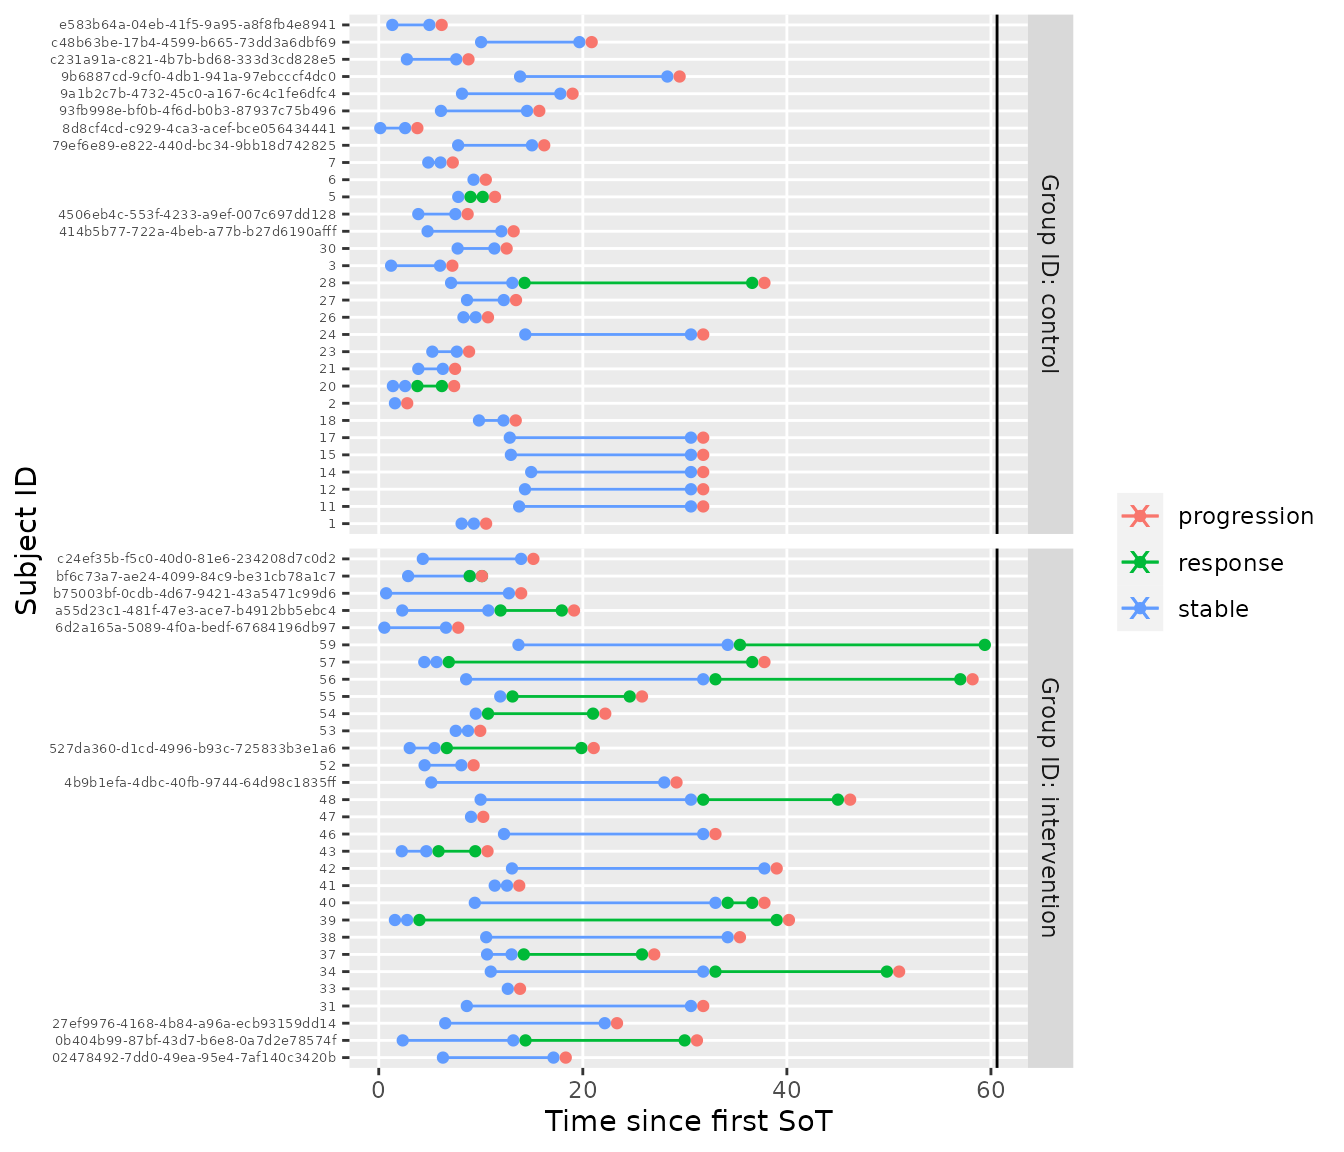
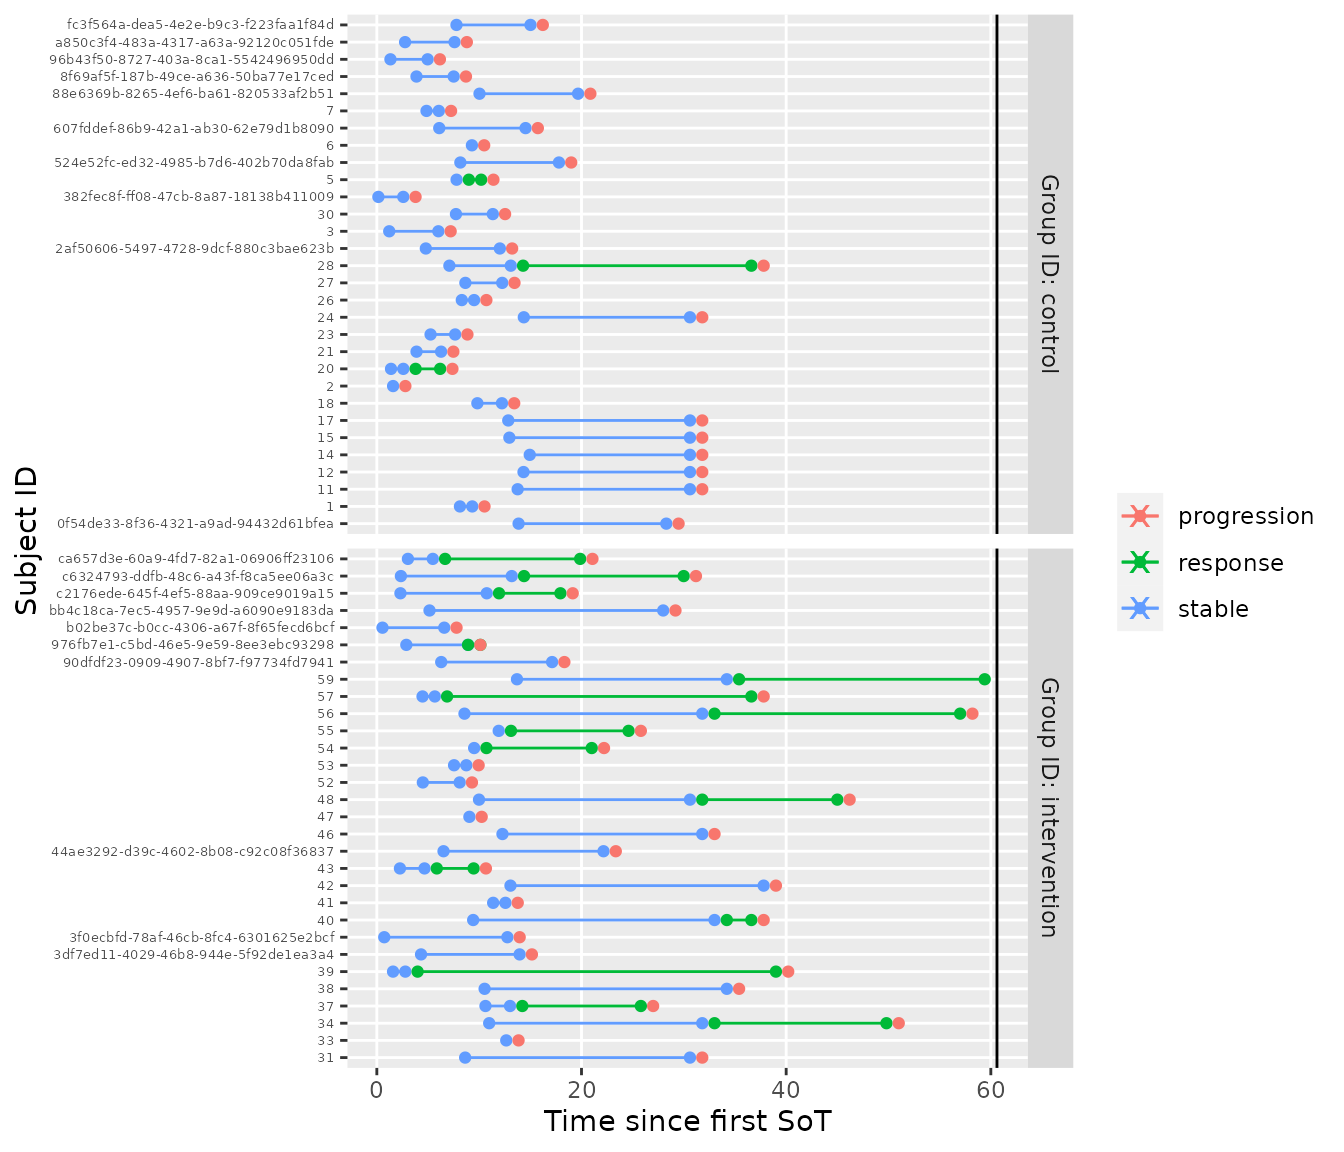
Deploying to gh-pages from @ Boehringer-Ingelheim/oncomsm@eda3e94cb7a55cb891f7c2e76240ce21d4c59702 🚀

diff --git a/articles/multi-state-model-for-early-oncology.html b/articles/multi-state-model-for-early-oncology.html
@@ -90,10 +90,10 @@
 <p><strong>tl;dr:</strong> <em>Tumor response data is often treated as binary endpoint in early oncology trials (objective response or progression free survival at x months). This ignores the fact that these are time-to-event endpoints. Instead, the multi-state characteristics of the data can be exploited to reduce bias at interim analyses and drive event prediction for probability of success calculations.</em></p>
 <p>In early oncology trials, (objective tumor) response based on the RECIST criteria is often used as primary endpoint to establish the activity of a treatment. Response is often treated as binary variable although it is a delayed event endpoint. At the final analysis, this simplification is of little concern since all individuals tend to be followed up long enough to justify the assumption that non-responders are unlikely to still become responders. This approach is often plausible since individuals with tumors not responding to treatment ultimately progress. However, when continuously monitoring such a trial, the assumption of sufficient follow-up is no longer fulfilled and a simple binary analysis may be biased.</p>
 <p>In this vignette, the problem is addressed by extending the statistic binary response model to a three-state model for “stable”, “response”, and “progression or death”. The respective transition numbers are given in the graph below.</p>
-<div id="htmlwidget-0e3ef72b89f70aabca5e" style="width:672px;height:200px;" class="DiagrammeR html-widget"></div>
-<script type="application/json" data-for="htmlwidget-0e3ef72b89f70aabca5e">{"x":{"diagram":"\ngraph LR\n  stable -- 1 --> response\n  response -- 2 --> progression[progression or death]\n  stable -- 3 --> progression[progression or death]\n"},"evals":[],"jsHooks":[]}</script><p>Once someone becomes a responder, this model only allows a transition to the combined progression or death state. This means that progression and death are not modeled as competing events and simplifies analysis greatly over a model like the one below:</p>
-<div id="htmlwidget-b415b9ebb0619fcd1e0f" style="width:672px;height:200px;" class="DiagrammeR html-widget"></div>
-<script type="application/json" data-for="htmlwidget-b415b9ebb0619fcd1e0f">{"x":{"diagram":"\ngraph LR\n  stable -- 1 --> response\n  response -- 2a --> progression\n  response -- 2b --> death\n  progression -- 4 --> death\n  stable -- 3a --> progression\n  stable -- 3b --> death\n"},"evals":[],"jsHooks":[]}</script><p>Coming back to the simpler model, there is still a competing event issue when starting from ‘stable’. Often, the convenient hazard-based approach is used to model multistate situations like this. The hazard-based approach is intuitive, especially when considering non-parametric estimation, and co variate inclusion is well-understood. However, a hazard-based approach has several disadvantages:</p>
+<div id="htmlwidget-0f9902b0a8a7900ef460" style="width:672px;height:200px;" class="DiagrammeR html-widget"></div>
+<script type="application/json" data-for="htmlwidget-0f9902b0a8a7900ef460">{"x":{"diagram":"\ngraph LR\n  stable -- 1 --> response\n  response -- 2 --> progression[progression or death]\n  stable -- 3 --> progression[progression or death]\n"},"evals":[],"jsHooks":[]}</script><p>Once someone becomes a responder, this model only allows a transition to the combined progression or death state. This means that progression and death are not modeled as competing events and simplifies analysis greatly over a model like the one below:</p>
+<div id="htmlwidget-17c1ba936c88bd318ace" style="width:672px;height:200px;" class="DiagrammeR html-widget"></div>
+<script type="application/json" data-for="htmlwidget-17c1ba936c88bd318ace">{"x":{"diagram":"\ngraph LR\n  stable -- 1 --> response\n  response -- 2a --> progression\n  response -- 2b --> death\n  progression -- 4 --> death\n  stable -- 3a --> progression\n  stable -- 3b --> death\n"},"evals":[],"jsHooks":[]}</script><p>Coming back to the simpler model, there is still a competing event issue when starting from ‘stable’. Often, the convenient hazard-based approach is used to model multistate situations like this. The hazard-based approach is intuitive, especially when considering non-parametric estimation, and co variate inclusion is well-understood. However, a hazard-based approach has several disadvantages:</p>
 <ol style="list-style-type: decimal">
 <li><p>The hazard scale is difficult to interpret since it is a momentary risk, not a probability. This leads to problems with prior specification in a Bayesian setting. The Bayesian approach is, however, particularly useful in the early development process since it allows to augment data with prior opinion or evidence and thus improve accuracy.</p></li>
 <li><p>A hazard based, non-Markov multi-state model leads to intractable expressions for the implicitly given transition probabilities. Hence they need to be calculated by simulation which makes the model less convenient to work with if transition probabilities a or of primary interest. Since the (objective) response rate often plays an important role in the analysis of early oncology trials, this is a disadvantage.</p></li>
@@ -371,8 +371,8 @@ R &amp;\sim \operatorname{Bernoulli}(p) \\
 <span><span class="co">#&gt; </span></span>
 <span><span class="co">#&gt; SAMPLING FOR MODEL 'srp_model' NOW (CHAIN 1).</span></span>
 <span><span class="co">#&gt; Chain 1: </span></span>
-<span><span class="co">#&gt; Chain 1: Gradient evaluation took 9.2e-05 seconds</span></span>
-<span><span class="co">#&gt; Chain 1: 1000 transitions using 10 leapfrog steps per transition would take 0.92 seconds.</span></span>
+<span><span class="co">#&gt; Chain 1: Gradient evaluation took 9.8e-05 seconds</span></span>
+<span><span class="co">#&gt; Chain 1: 1000 transitions using 10 leapfrog steps per transition would take 0.98 seconds.</span></span>
 <span><span class="co">#&gt; Chain 1: Adjust your expectations accordingly!</span></span>
 <span><span class="co">#&gt; Chain 1: </span></span>
 <span><span class="co">#&gt; Chain 1: </span></span>
@@ -389,9 +389,9 @@ R &amp;\sim \operatorname{Bernoulli}(p) \\
 <span><span class="co">#&gt; Chain 1: Iteration: 4750 / 5250 [ 90%]  (Sampling)</span></span>
 <span><span class="co">#&gt; Chain 1: Iteration: 5250 / 5250 [100%]  (Sampling)</span></span>
 <span><span class="co">#&gt; Chain 1: </span></span>
-<span><span class="co">#&gt; Chain 1:  Elapsed Time: 0.928561 seconds (Warm-up)</span></span>
-<span><span class="co">#&gt; Chain 1:                10.1233 seconds (Sampling)</span></span>
-<span><span class="co">#&gt; Chain 1:                11.0519 seconds (Total)</span></span>
+<span><span class="co">#&gt; Chain 1:  Elapsed Time: 0.934582 seconds (Warm-up)</span></span>
+<span><span class="co">#&gt; Chain 1:                10.2428 seconds (Sampling)</span></span>
+<span><span class="co">#&gt; Chain 1:                11.1773 seconds (Total)</span></span>
 <span><span class="co">#&gt; Chain 1:</span></span>
 <span></span>
 <span><span class="fu"><a href="https://rdrr.io/r/graphics/plot.default.html" class="external-link">plot</a></span><span class="op">(</span><span class="va">mdl</span>, dt <span class="op">=</span> <span class="fu"><a href="https://rdrr.io/r/base/c.html" class="external-link">c</a></span><span class="op">(</span><span class="fl">0</span>, <span class="fl">36</span><span class="op">)</span>, sample <span class="op">=</span> <span class="va">smpl_posterior</span><span class="op">)</span></span></code></pre></div>
@@ -459,26 +459,26 @@ R &amp;\sim \operatorname{Bernoulli}(p) \\
 <span><span class="co">#&gt; <span style="color: #949494;"># A tibble: 20 × 7</span></span></span>
 <span><span class="co">#&gt;    group_id     subject_id                        t_sot from  to     t_min t_max</span></span>
 <span><span class="co">#&gt;    <span style="color: #949494; font-style: italic;">&lt;chr&gt;</span>        <span style="color: #949494; font-style: italic;">&lt;chr&gt;</span>                             <span style="color: #949494; font-style: italic;">&lt;dbl&gt;</span> <span style="color: #949494; font-style: italic;">&lt;chr&gt;</span> <span style="color: #949494; font-style: italic;">&lt;chr&gt;</span>  <span style="color: #949494; font-style: italic;">&lt;dbl&gt;</span> <span style="color: #949494; font-style: italic;">&lt;dbl&gt;</span></span></span>
-<span><span class="co">#&gt; <span style="color: #BCBCBC;"> 1</span> control      8d8cf4cd-c929-4ca3-acef-bce0564…  0.151 stab… <span style="color: #BB0000;">NA</span>     0.184   <span style="color: #BB0000;">Inf</span></span></span>
-<span><span class="co">#&gt; <span style="color: #BCBCBC;"> 2</span> control      e583b64a-04eb-41f5-9a95-a8f8fb4…  1.33  stab… <span style="color: #BB0000;">NA</span>     1.36    <span style="color: #BB0000;">Inf</span></span></span>
-<span><span class="co">#&gt; <span style="color: #BCBCBC;"> 3</span> control      c231a91a-c821-4b7b-bd68-333d3cd…  2.76  stab… <span style="color: #BB0000;">NA</span>     2.79    <span style="color: #BB0000;">Inf</span></span></span>
-<span><span class="co">#&gt; <span style="color: #BCBCBC;"> 4</span> control      4506eb4c-553f-4233-a9ef-007c697…  3.88  stab… <span style="color: #BB0000;">NA</span>     3.91    <span style="color: #BB0000;">Inf</span></span></span>
-<span><span class="co">#&gt; <span style="color: #BCBCBC;"> 5</span> control      414b5b77-722a-4beb-a77b-b27d619…  4.79  stab… <span style="color: #BB0000;">NA</span>     4.82    <span style="color: #BB0000;">Inf</span></span></span>
-<span><span class="co">#&gt; <span style="color: #BCBCBC;"> 6</span> control      93fb998e-bf0b-4f6d-b0b3-87937c7…  6.10  stab… <span style="color: #BB0000;">NA</span>     6.13    <span style="color: #BB0000;">Inf</span></span></span>
-<span><span class="co">#&gt; <span style="color: #BCBCBC;"> 7</span> control      79ef6e89-e822-440d-bc34-9bb18d7…  7.78  stab… <span style="color: #BB0000;">NA</span>     7.82    <span style="color: #BB0000;">Inf</span></span></span>
-<span><span class="co">#&gt; <span style="color: #BCBCBC;"> 8</span> control      9a1b2c7b-4732-45c0-a167-6c4c1fe…  8.16  stab… <span style="color: #BB0000;">NA</span>     8.20    <span style="color: #BB0000;">Inf</span></span></span>
-<span><span class="co">#&gt; <span style="color: #BCBCBC;"> 9</span> control      c48b63be-17b4-4599-b665-73dd3a6… 10.0   stab… <span style="color: #BB0000;">NA</span>    10.1     <span style="color: #BB0000;">Inf</span></span></span>
-<span><span class="co">#&gt; <span style="color: #BCBCBC;">10</span> control      9b6887cd-9cf0-4db1-941a-97ebccc… 13.9   stab… <span style="color: #BB0000;">NA</span>    13.9     <span style="color: #BB0000;">Inf</span></span></span>
-<span><span class="co">#&gt; <span style="color: #BCBCBC;">11</span> intervention 6d2a165a-5089-4f0a-bedf-6768419…  0.554 stab… <span style="color: #BB0000;">NA</span>     0.587   <span style="color: #BB0000;">Inf</span></span></span>
-<span><span class="co">#&gt; <span style="color: #BCBCBC;">12</span> intervention b75003bf-0cdb-4d67-9421-43a5471…  0.724 stab… <span style="color: #BB0000;">NA</span>     0.758   <span style="color: #BB0000;">Inf</span></span></span>
-<span><span class="co">#&gt; <span style="color: #BCBCBC;">13</span> intervention a55d23c1-481f-47e3-ace7-b4912bb…  2.31  stab… <span style="color: #BB0000;">NA</span>     2.34    <span style="color: #BB0000;">Inf</span></span></span>
-<span><span class="co">#&gt; <span style="color: #BCBCBC;">14</span> intervention 0b404b99-87bf-43d7-b6e8-0a7d2e7…  2.35  stab… <span style="color: #BB0000;">NA</span>     2.38    <span style="color: #BB0000;">Inf</span></span></span>
-<span><span class="co">#&gt; <span style="color: #BCBCBC;">15</span> intervention bf6c73a7-ae24-4099-84c9-be31cb7…  2.88  stab… <span style="color: #BB0000;">NA</span>     2.92    <span style="color: #BB0000;">Inf</span></span></span>
-<span><span class="co">#&gt; <span style="color: #BCBCBC;">16</span> intervention 527da360-d1cd-4996-b93c-725833b…  3.04  stab… <span style="color: #BB0000;">NA</span>     3.07    <span style="color: #BB0000;">Inf</span></span></span>
-<span><span class="co">#&gt; <span style="color: #BCBCBC;">17</span> intervention c24ef35b-f5c0-40d0-81e6-234208d…  4.32  stab… <span style="color: #BB0000;">NA</span>     4.35    <span style="color: #BB0000;">Inf</span></span></span>
-<span><span class="co">#&gt; <span style="color: #BCBCBC;">18</span> intervention 4b9b1efa-4dbc-40fb-9744-64d98c1…  5.15  stab… <span style="color: #BB0000;">NA</span>     5.18    <span style="color: #BB0000;">Inf</span></span></span>
-<span><span class="co">#&gt; <span style="color: #BCBCBC;">19</span> intervention 02478492-7dd0-49ea-95e4-7af140c…  6.29  stab… <span style="color: #BB0000;">NA</span>     6.33    <span style="color: #BB0000;">Inf</span></span></span>
-<span><span class="co">#&gt; <span style="color: #BCBCBC;">20</span> intervention 27ef9976-4168-4b84-a96a-ecb9315…  6.52  stab… <span style="color: #BB0000;">NA</span>     6.55    <span style="color: #BB0000;">Inf</span></span></span></code></pre></div>
+<span><span class="co">#&gt; <span style="color: #BCBCBC;"> 1</span> control      382fec8f-ff08-47cb-8a87-18138b4…  0.151 stab… <span style="color: #BB0000;">NA</span>     0.184   <span style="color: #BB0000;">Inf</span></span></span>
+<span><span class="co">#&gt; <span style="color: #BCBCBC;"> 2</span> control      96b43f50-8727-403a-8ca1-5542496…  1.33  stab… <span style="color: #BB0000;">NA</span>     1.36    <span style="color: #BB0000;">Inf</span></span></span>
+<span><span class="co">#&gt; <span style="color: #BCBCBC;"> 3</span> control      a850c3f4-483a-4317-a63a-92120c0…  2.76  stab… <span style="color: #BB0000;">NA</span>     2.79    <span style="color: #BB0000;">Inf</span></span></span>
+<span><span class="co">#&gt; <span style="color: #BCBCBC;"> 4</span> control      8f69af5f-187b-49ce-a636-50ba77e…  3.88  stab… <span style="color: #BB0000;">NA</span>     3.91    <span style="color: #BB0000;">Inf</span></span></span>
+<span><span class="co">#&gt; <span style="color: #BCBCBC;"> 5</span> control      2af50606-5497-4728-9dcf-880c3ba…  4.79  stab… <span style="color: #BB0000;">NA</span>     4.82    <span style="color: #BB0000;">Inf</span></span></span>
+<span><span class="co">#&gt; <span style="color: #BCBCBC;"> 6</span> control      607fddef-86b9-42a1-ab30-62e79d1…  6.10  stab… <span style="color: #BB0000;">NA</span>     6.13    <span style="color: #BB0000;">Inf</span></span></span>
+<span><span class="co">#&gt; <span style="color: #BCBCBC;"> 7</span> control      fc3f564a-dea5-4e2e-b9c3-f223faa…  7.78  stab… <span style="color: #BB0000;">NA</span>     7.82    <span style="color: #BB0000;">Inf</span></span></span>
+<span><span class="co">#&gt; <span style="color: #BCBCBC;"> 8</span> control      524e52fc-ed32-4985-b7d6-402b70d…  8.16  stab… <span style="color: #BB0000;">NA</span>     8.20    <span style="color: #BB0000;">Inf</span></span></span>
+<span><span class="co">#&gt; <span style="color: #BCBCBC;"> 9</span> control      88e6369b-8265-4ef6-ba61-820533a… 10.0   stab… <span style="color: #BB0000;">NA</span>    10.1     <span style="color: #BB0000;">Inf</span></span></span>
+<span><span class="co">#&gt; <span style="color: #BCBCBC;">10</span> control      0f54de33-8f36-4321-a9ad-94432d6… 13.9   stab… <span style="color: #BB0000;">NA</span>    13.9     <span style="color: #BB0000;">Inf</span></span></span>
+<span><span class="co">#&gt; <span style="color: #BCBCBC;">11</span> intervention b02be37c-b0cc-4306-a67f-8f65fec…  0.554 stab… <span style="color: #BB0000;">NA</span>     0.587   <span style="color: #BB0000;">Inf</span></span></span>
+<span><span class="co">#&gt; <span style="color: #BCBCBC;">12</span> intervention 3f0ecbfd-78af-46cb-8fc4-6301625…  0.724 stab… <span style="color: #BB0000;">NA</span>     0.758   <span style="color: #BB0000;">Inf</span></span></span>
+<span><span class="co">#&gt; <span style="color: #BCBCBC;">13</span> intervention c2176ede-645f-4ef5-88aa-909ce90…  2.31  stab… <span style="color: #BB0000;">NA</span>     2.34    <span style="color: #BB0000;">Inf</span></span></span>
+<span><span class="co">#&gt; <span style="color: #BCBCBC;">14</span> intervention c6324793-ddfb-48c6-a43f-f8ca5ee…  2.35  stab… <span style="color: #BB0000;">NA</span>     2.38    <span style="color: #BB0000;">Inf</span></span></span>
+<span><span class="co">#&gt; <span style="color: #BCBCBC;">15</span> intervention 976fb7e1-c5bd-46e5-9e59-8ee3ebc…  2.88  stab… <span style="color: #BB0000;">NA</span>     2.92    <span style="color: #BB0000;">Inf</span></span></span>
+<span><span class="co">#&gt; <span style="color: #BCBCBC;">16</span> intervention ca657d3e-60a9-4fd7-82a1-06906ff…  3.04  stab… <span style="color: #BB0000;">NA</span>     3.07    <span style="color: #BB0000;">Inf</span></span></span>
+<span><span class="co">#&gt; <span style="color: #BCBCBC;">17</span> intervention 3df7ed11-4029-46b8-944e-5f92de1…  4.32  stab… <span style="color: #BB0000;">NA</span>     4.35    <span style="color: #BB0000;">Inf</span></span></span>
+<span><span class="co">#&gt; <span style="color: #BCBCBC;">18</span> intervention bb4c18ca-7ec5-4957-9e9d-a6090e9…  5.15  stab… <span style="color: #BB0000;">NA</span>     5.18    <span style="color: #BB0000;">Inf</span></span></span>
+<span><span class="co">#&gt; <span style="color: #BCBCBC;">19</span> intervention 90dfdf23-0909-4907-8bf7-f97734f…  6.29  stab… <span style="color: #BB0000;">NA</span>     6.33    <span style="color: #BB0000;">Inf</span></span></span>
+<span><span class="co">#&gt; <span style="color: #BCBCBC;">20</span> intervention 44ae3292-d39c-4602-8b08-c92c08f…  6.52  stab… <span style="color: #BB0000;">NA</span>     6.55    <span style="color: #BB0000;">Inf</span></span></span></code></pre></div>
 <p>The hypothetical future first-visits can now be combined with the interim data and the trajectories can be sampled forward using the already fitted posterior distribution.</p>
 <div class="sourceCode" id="cb16"><pre class="downlit sourceCode r">
 <code class="sourceCode R"><span><span class="va">tbl_mstate_interim_forward</span> <span class="op">&lt;-</span> <span class="fu"><a href="https://dplyr.tidyverse.org/reference/bind.html" class="external-link">bind_rows</a></span><span class="op">(</span><span class="va">tbl_mstate_interim</span>, <span class="va">tbl_to_be_recruited</span><span class="op">)</span></span>

diff --git a/articles/application-to-probability-of-success.html b/articles/application-to-probability-of-success.html
@@ -395,16 +395,16 @@
 <span><span class="co">#&gt; <span style="color: #949494;"># A tibble: 7,807 × 8</span></span></span>
 <span><span class="co">#&gt;    subject_id                       group…¹ from  to     t_min t_max t_sot  iter</span></span>
 <span><span class="co">#&gt;    <span style="color: #949494; font-style: italic;">&lt;chr&gt;</span>                            <span style="color: #949494; font-style: italic;">&lt;chr&gt;</span>   <span style="color: #949494; font-style: italic;">&lt;chr&gt;</span> <span style="color: #949494; font-style: italic;">&lt;chr&gt;</span>  <span style="color: #949494; font-style: italic;">&lt;dbl&gt;</span> <span style="color: #949494; font-style: italic;">&lt;dbl&gt;</span> <span style="color: #949494; font-style: italic;">&lt;dbl&gt;</span> <span style="color: #949494; font-style: italic;">&lt;int&gt;</span></span></span>
-<span><span class="co">#&gt; <span style="color: #BCBCBC;"> 1</span> 60993a71-ee6f-4800-8094-04fcba2… B       stab… prog… 14.7   15.9  0.231     1</span></span>
-<span><span class="co">#&gt; <span style="color: #BCBCBC;"> 2</span> 60993a71-ee6f-4800-8094-04fcba2… B       stab… prog…  0.264  1.46 0.231     2</span></span>
-<span><span class="co">#&gt; <span style="color: #BCBCBC;"> 3</span> 60993a71-ee6f-4800-8094-04fcba2… B       stab… prog… 11.1   12.3  0.231     3</span></span>
-<span><span class="co">#&gt; <span style="color: #BCBCBC;"> 4</span> 60993a71-ee6f-4800-8094-04fcba2… B       stab… resp…  1.46   2.66 0.231     4</span></span>
-<span><span class="co">#&gt; <span style="color: #BCBCBC;"> 5</span> 60993a71-ee6f-4800-8094-04fcba2… B       resp… prog… 11.1   12.3  0.231     4</span></span>
-<span><span class="co">#&gt; <span style="color: #BCBCBC;"> 6</span> 60993a71-ee6f-4800-8094-04fcba2… B       stab… resp…  0.264  1.46 0.231     5</span></span>
-<span><span class="co">#&gt; <span style="color: #BCBCBC;"> 7</span> 60993a71-ee6f-4800-8094-04fcba2… B       resp… prog…  7.46   8.66 0.231     5</span></span>
-<span><span class="co">#&gt; <span style="color: #BCBCBC;"> 8</span> 60993a71-ee6f-4800-8094-04fcba2… B       stab… prog…  3.86   5.06 0.231     6</span></span>
-<span><span class="co">#&gt; <span style="color: #BCBCBC;"> 9</span> 60993a71-ee6f-4800-8094-04fcba2… B       stab… prog…  5.06   6.26 0.231     7</span></span>
-<span><span class="co">#&gt; <span style="color: #BCBCBC;">10</span> 60993a71-ee6f-4800-8094-04fcba2… B       stab… prog… 15.9   17.1  0.231     8</span></span>
+<span><span class="co">#&gt; <span style="color: #BCBCBC;"> 1</span> 2fe5c666-b261-41fb-932f-7077f72… B       stab… prog… 14.7   15.9  0.231     1</span></span>
+<span><span class="co">#&gt; <span style="color: #BCBCBC;"> 2</span> 2fe5c666-b261-41fb-932f-7077f72… B       stab… prog…  0.264  1.46 0.231     2</span></span>
+<span><span class="co">#&gt; <span style="color: #BCBCBC;"> 3</span> 2fe5c666-b261-41fb-932f-7077f72… B       stab… prog… 11.1   12.3  0.231     3</span></span>
+<span><span class="co">#&gt; <span style="color: #BCBCBC;"> 4</span> 2fe5c666-b261-41fb-932f-7077f72… B       stab… resp…  1.46   2.66 0.231     4</span></span>
+<span><span class="co">#&gt; <span style="color: #BCBCBC;"> 5</span> 2fe5c666-b261-41fb-932f-7077f72… B       resp… prog… 11.1   12.3  0.231     4</span></span>
+<span><span class="co">#&gt; <span style="color: #BCBCBC;"> 6</span> 2fe5c666-b261-41fb-932f-7077f72… B       stab… resp…  0.264  1.46 0.231     5</span></span>
+<span><span class="co">#&gt; <span style="color: #BCBCBC;"> 7</span> 2fe5c666-b261-41fb-932f-7077f72… B       resp… prog…  7.46   8.66 0.231     5</span></span>
+<span><span class="co">#&gt; <span style="color: #BCBCBC;"> 8</span> 2fe5c666-b261-41fb-932f-7077f72… B       stab… prog…  3.86   5.06 0.231     6</span></span>
+<span><span class="co">#&gt; <span style="color: #BCBCBC;"> 9</span> 2fe5c666-b261-41fb-932f-7077f72… B       stab… prog…  5.06   6.26 0.231     7</span></span>
+<span><span class="co">#&gt; <span style="color: #BCBCBC;">10</span> 2fe5c666-b261-41fb-932f-7077f72… B       stab… prog… 15.9   17.1  0.231     8</span></span>
 <span><span class="co">#&gt; <span style="color: #949494;"># … with 7,797 more rows, and abbreviated variable name ¹group_id</span></span></span>
 <span><span class="co">#&gt; <span style="color: #949494;"># ℹ Use `print(n = ...)` to see more rows</span></span></span></code></pre></div>
 </div>
